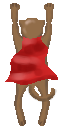
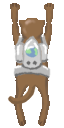
Added another level, animationSprites, and a beautiful cat tail animation.

diff --git a/24-hour-android/src/android/game/Player.java b/24-hour-android/src/android/game/Player.java
@@ -3,7 +3,7 @@ package android.game;
 import com.badlogic.gdx.Gdx;
 import com.badlogic.gdx.graphics.g2d.SpriteBatch;
 
-public class Player extends Sprite{
+public class Player extends AnimationSprite{
 
 	Vector3D p, v, a;
 	
@@ -18,7 +18,24 @@ public class Player extends Sprite{
 	int maxLaunchModeCoolDown = 20;
 	
 	public Player() {
-		super("cat.png");
+		super("cat1.png", 1);
+		addFrame(new Sprite("cat2.png"));
+		addFrame(new Sprite("cat3.png"));
+		addFrame(new Sprite("cat4.png"));
+		addFrame(new Sprite("cat5.png"));
+		addFrame(new Sprite("cat6.png"));
+		addFrame(new Sprite("cat7.png"));
+		addFrame(new Sprite("cat8.png"));
+		addFrame(new Sprite("cat9.png"));
+		addFrame(new Sprite("cat10.png"));
+		addFrame(new Sprite("cat9.png"));
+		addFrame(new Sprite("cat8.png"));
+		addFrame(new Sprite("cat7.png"));
+		addFrame(new Sprite("cat6.png"));
+		addFrame(new Sprite("cat5.png"));
+		addFrame(new Sprite("cat4.png"));
+		addFrame(new Sprite("cat3.png"));
+		addFrame(new Sprite("cat2.png"));
 		v = new Vector3D();
         p = new Vector3D();
         a = new Vector3D();

diff --git a/24-hour-android/src/android/game/AnimationSprite.java b/24-hour-android/src/android/game/AnimationSprite.java
@@ -1,0 +1,41 @@
+package android.game;
+
+import java.util.ArrayList;
+
+import com.badlogic.gdx.graphics.g2d.SpriteBatch;
+
+public class AnimationSprite extends Sprite{
+	ArrayList<Sprite> frames;
+	
+//	double x, y, w, h, r;
+	
+	int curFrame;
+	int frameLength;
+	int frameCount;
+	
+	public AnimationSprite(String filename, int frameLength) {
+		super(filename);
+		
+		frames = new ArrayList<Sprite>();
+		frames.add(new Sprite(filename));
+		
+		this.frameLength = frameLength;
+	}
+	
+	public void addFrame(Sprite frame){
+		frames.add(frame);
+	}
+	
+	public void draw(SpriteBatch model, int dx, int dy){
+		frameCount += 1;
+		curFrame = (frameCount / frameLength) % frames.size();
+		Sprite sprite = frames.get(curFrame);
+		
+		sprite.x = x;
+		sprite.y = y;
+		sprite.width = width;
+		sprite.height = height;
+		sprite.rotation = rotation;
+		sprite.draw(model, dx, dy);
+	}
+}

diff --git a/24-hour-android/src/android/game/LibgdxTest.java b/24-hour-android/src/android/game/LibgdxTest.java
@@ -264,8 +264,8 @@ public class LibgdxTest implements ApplicationListener{
 		}
 		
 		particleSources.add(new ParticleSource(30, 2, 1, new Vector3D(0, 0, 0), new Vector3D(player.x + player.width/2, player.y + player.height/2, 0), 15, "red.png"));
-	
-		menuButton.draw(batch, 0, 0);
+		
+		player.draw(batch, x, y, (int) win.p.getX(), (int) win.p.getY());
 		
 		int i = 0;
 		while (i < particleSources.size()) {
@@ -276,11 +276,11 @@ public class LibgdxTest implements ApplicationListener{
 			}
 		}
 		
+		menuButton.draw(batch, 0, 0);
+		
 		fuel.width = (int) (Gdx.graphics.getWidth() * player.fuel / player.maxFuel);
 		fuel.x = (int) ((Gdx.graphics.getWidth() - fuel.width) / 2);
 		fuel.draw(batch, 0, 0);
-		
-		player.draw(batch, x, y, (int) win.p.getX(), (int) win.p.getY());
 		
 		batch.end();
 		
